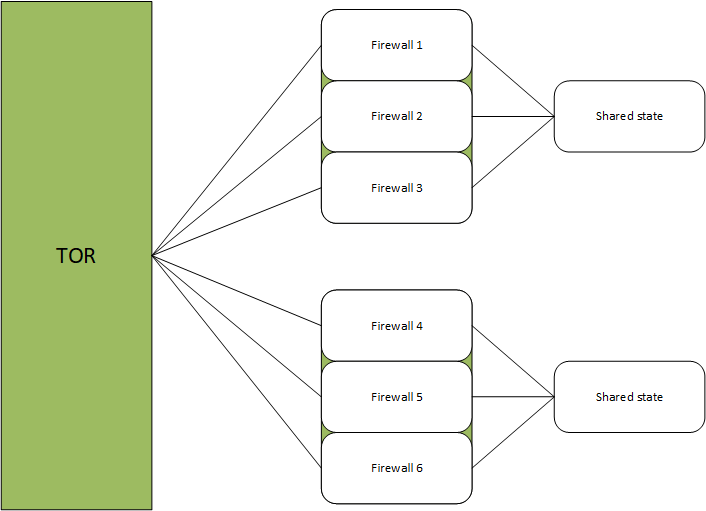
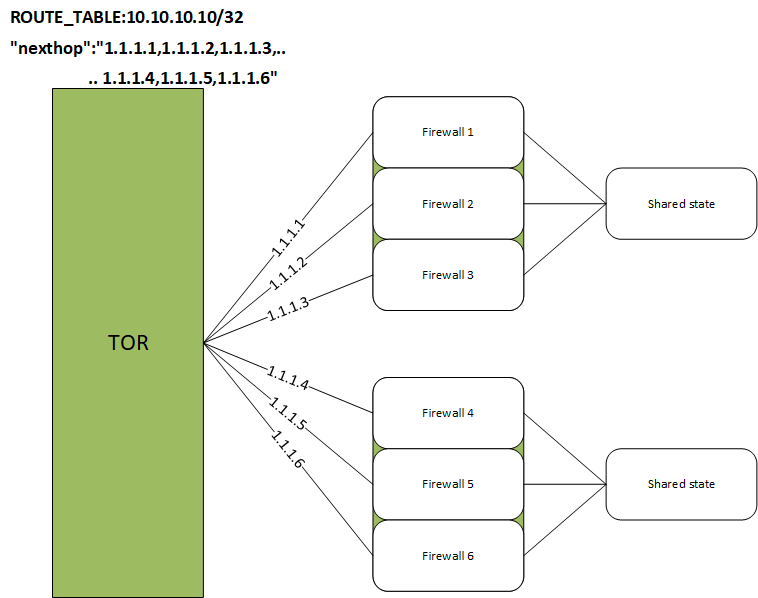
Incorporate review comments

diff --git a/doc/ecmp/fine_grained_next_hop_hld.md b/doc/ecmp/fine_grained_next_hop_hld.md
@@ -24,12 +24,13 @@
   * [2 Modules Design](#2-modules-design)
     * [2.1 Config DB](#21-config-db)
     * [2.2 State DB](#22-state-db)
-    * [2.3 CLI](#22-cli)
-    * [2.4 Orchestration Agent](#23-orchestration-agent)
-    * [2.5 SAI](#24-sai)
+    * [2.3 CLI](#23-cli)
+    * [2.4 Orchestration Agent](#24-orchestration-agent)
+    * [2.5 SAI](#25-sai)
   * [3 Flows](#3-flows)
-  * [4 Example configuration](#4-example-configuration)
-  * [5 Warm boot support](#5-warm-boot-support)
+  * [4 Details](#4-details)
+  * [5 Example configuration](#5-example-configuration)
+  * [6 Warm boot support](#6-warm-boot-support)
 
 ###### Revision
 | Rev |     Date    |       Author       | Change Description                |
@@ -42,14 +43,15 @@ This document provides the high level design for the Fine Grained ECMP feature i
 Associated SAI proposal: https://github.com/opencomputeproject/SAI/blob/master/doc/ECMP/Ordered_and_Fine_Grained_ECMP.md
 # Scope
 This document describes the high level design of a staic Fine Grained ECMP feature as implemented in the application layer. 
-- In-scope: Modifying the behavior of ECMP to achieve fine grained handling of ECMP for a static set of next-hops and prefixes as defined in configuration
-- Out of scope: Dynamic ways to enable and use fine grained ECMP
+- In-scope: Modifying the behavior of ECMP to achieve fine grained handling of ECMP for a specifically identified prefix and associated next-hops in configuration
+- Out of scope: Dynamic ways to enable and use fine grained ECMP in a way that enables consistent ECMP for all possible prefixes
 # Use case
 ![](../../images/ecmp/use_case.png)
 
 Firewall or other applications running on loadbalanced VMs which maintain state of flows running through them, such that:
-- There is shared state amongst some set of firewalls so that flows can be recovered, but flow recovery is expensive so we should limit flow redistributions
-- Give that not all firewalls share state, there is a need to redistribute flows only amongst the firewalls which share state
+- There is shared state amongst some set of firewalls so that flows can be recovered if a flow transistions from 1 firewall to another in the same firewall set(bank). Flow transistions can occur when next-hops are added/withdrawn. In this example Firewall 1,2,3 form a firewall set(bank)
+- Flow recovery is expensive so we should limit the flow redistributions which occur during next-hop addition and removal
+- Given that not all firewalls share state, there is a need to redistribute flows only amongst the firewalls which share state
 - An entire firewall set can go down
 
 
@@ -113,10 +115,10 @@ Following new tables will be added to Config DB. Unless otherwise stated, the at
 FG_NHG|{{fg-nhg-group-name}}:
     "bucket_size": {{hash_bucket_size}}
 
-FG_NHG_PREFIX|{{IPv4 OR IPv6 address}}:
+FG_NHG_PREFIX|{{IPv4 OR IPv6 prefix}}:
     "FG_NHG":{{fg-nhg-group-name}}
 
-FG_NHG_MEMBER|{{next-hop-ip(IPv4 or IPv6)}}:
+FG_NHG_MEMBER|{{next-hop-ip(IPv4 or IPv6 address)}}:
     "FG_NHG":{{fg-nhg-group-name}}
     "Bank": {{an index which specifies a bank/group in which the redistribution is performed}} 
 ```
@@ -153,7 +155,7 @@ Please refer to the [schema](https://github.com/Azure/sonic-swss/blob/master/doc
 Following new table will be added to State DB. Unless otherwise stated, the attributes are mandatory.
 FG_ROUTE_TABLE is used for some of the show commands associated with this feature as well as for warm boot support.
 ```
-FG_ROUTE_TABLE|{{IPv4 OR IPv6 address}}:
+FG_ROUTE_TABLE|{{IPv4 OR IPv6 prefix}}:
     "0": {{next-hop-key}}
     "1": {{next-hop-key}}
     ...
@@ -222,7 +224,14 @@ The below table represents main SAI attributes which shall be used for Fine Grai
 
 ![](../../images/ecmp/route_changes.png)
 
-# 4 Example configuration
+# 4 Details
+- A key idea in achieving consistent ecmp and limiting redistributions to a bank(group) is the creation of many hash buckets(SAI_OBJECT_TYPE_NEXT_HOP_GROUP_MEMBER) associated with an ecmp group and having a next-hop repeated multiple times within it. 
+- Now if a next-hop were to go down we would only change the hash buckets which are affected by the next-hop down event. This allows us to ensure that all flows are not affected by a next-hop change, thereby achieving consistent hashing
+- Further, by pushing configuration with next-hop bank membership, we can ensure that we only refill the affected hash buckets with those next-hops within the same bank. Thus achieving consistent hashing within a bank itself and meeting the requirement/use case above.  
+- A distiction is made between Kernel routes and hardware routes for fine grained ECMP. The kernel route contains the prefix along with standard next-hops as learnt via BGP or any other means. Fine Grained ECMP takes that standard route(as pushed via APP DB + routeorch) and then creates a fine grained ECMP group by expanding it into the hash bucket membership. Further the kernel route and hw route are not equivalent due to the special redistribution behavior with respect to the bank defintion. Special logic is also present to ensure that any next-hops which don't match the static FG_NHG next-hop set for a prefix will cause the next-hop to be ignored to maintain consistency with the desired hw route and hashing state defined in FG_NHG. FG_NHG drives the final state of next-hop groups in the ASIC given a user programs the config_db entry for it.
+- A guideline for the hash bucket size is to define a bucket size which will allow equal distribution of traffic regardless of the number of next-hops which are active. For example with 2 Firewall sets, each set containing 3 firewall members: each set can have equal redistribution by finding the lowest common multiple of 3 next-hops which is 3*2*1(this is equivalent to us saying that if there were 3 or 2 or 1 next-hop active, we could distribute the traffic equally amongst the next-hops). With 2 such sets we get a total of 3*2*1 + 3*2*1 = 12 hash buckets.
+
+# 5 Example configuration
 
 ### Loadbalanced firewall sets
 6 Firewalls where each set of 3 firewalls form a group which share state, advertising VIP 10.10.10.10:
@@ -288,7 +297,7 @@ The below table represents main SAI attributes which shall be used for Fine Grai
 
 ![](../../images/ecmp/first_nh_addition.png)
 
-# 5 Warm boot support
+# 6 Warm boot support
 The following state is maintained for warm boot support and updated during regular runtime of fgNhgOrch:
 - State DB table FG_ROUTE_TABLE which maps the set of hash buckets to its associated next-hop member
 
